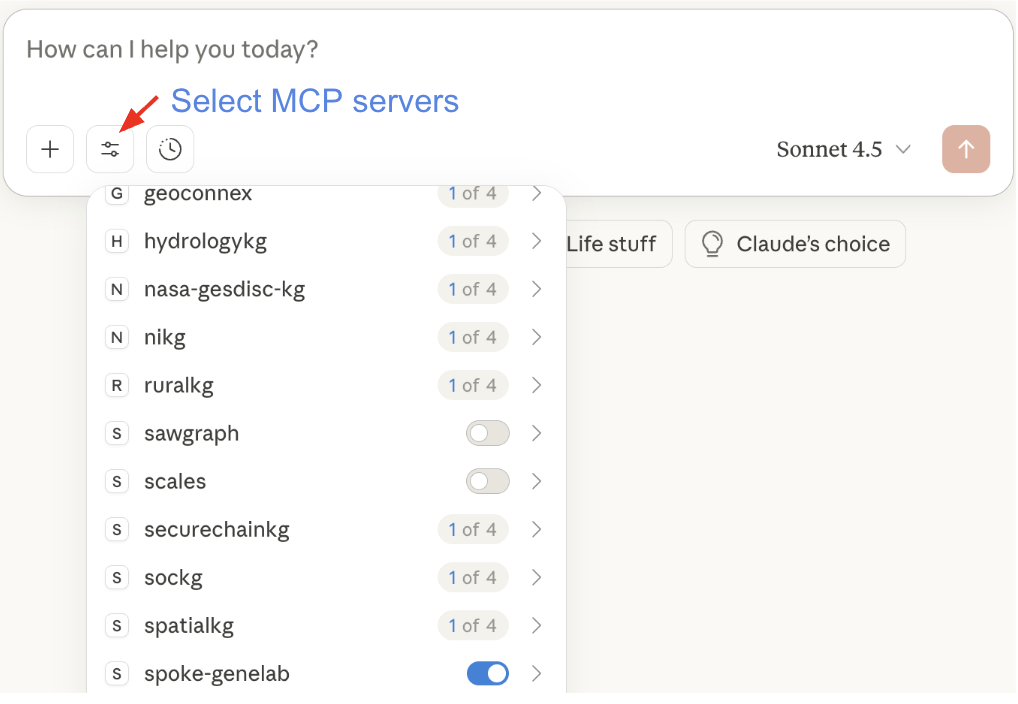
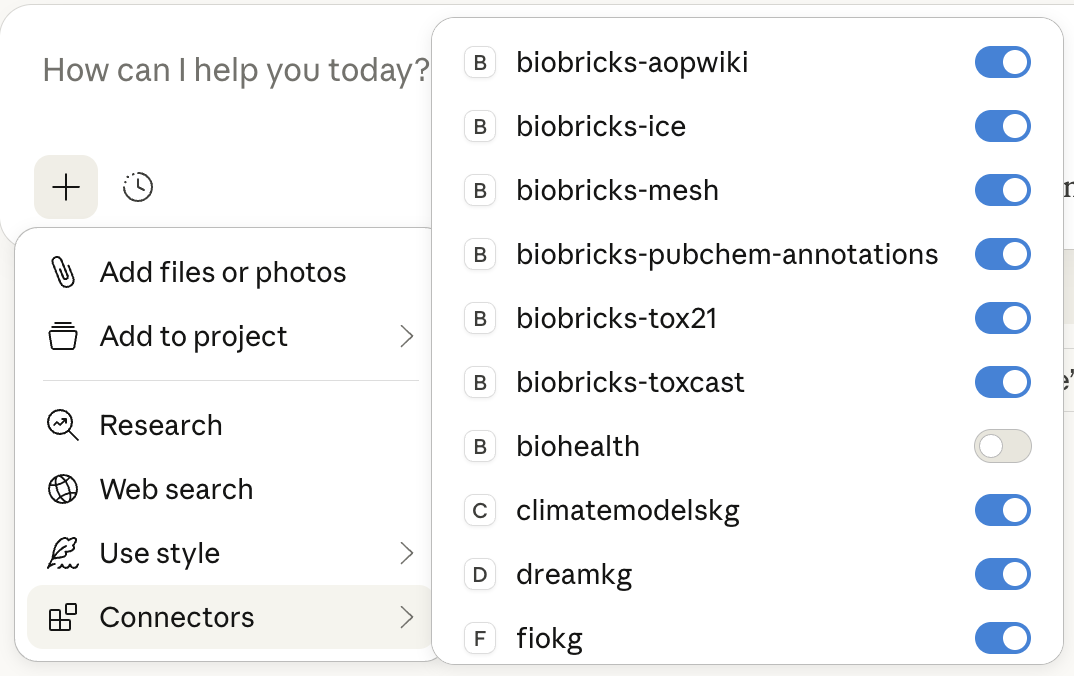
updated MCP selection

diff --git a/README.md b/README.md
@@ -44,13 +44,28 @@ Before installing the MCP Server Proto-OKN, ensure you have:
 
 Once configured, you can start querying knowledge graphs through natural language prompts in Claude Desktop or VS Code chat interface.
 
-In Claude Desktop, select the KGs you want to query, e.g., `spoke-genelab`.
+### Select and Configure MCP Tools
+
+From the top menu bar:
+```
+1. Select: Claude->Settings->Connectors
+2. Click: Configure for the MCP endpoints you want to use
+3. Select Tool permissions: Always allow
+```
+
+In the prompt dialog box, click the `+` button:
+```
+1. Turn off Web search
+2. Toggle MCP services on/off as needed
+```
 
 <img src="https://raw.githubusercontent.com/sbl-sdsc/mcp-proto-okn/main/docs/images/select_mcp_server.png"
      alt="Tool Selector"
      width="500">
 
-To create a transcript of a chat (see examples below), use the following prompt: `Create a chat transcript in .md format`. The transcript can then be downloaded in .md or .pdf format.
+To create a transcript of a chat (see examples below), use the following prompt: 
+```Create a chat transcript```. 
+The transcript can then be downloaded in .md format.
 
 ### Example Queries
 
@@ -72,39 +87,39 @@ To create a transcript of a chat (see examples below), use the following prompt:
 
    [ufokn chat transcript](https://github.com/sbl-sdsc/mcp-proto-okn/blob/main/docs/examples/ufokn_overview.md)
 
-3. **GeneLab Assay Structure (spoke-genelab)**
+2. **GeneLab Assay Structure (spoke-genelab)**
 
    [Chat transcript](https://github.com/sbl-sdsc/mcp-proto-okn/blob/main/docs/examples/spoke_genelab_assay.md)
 
-4. **Spaceflight Gene Expression Analysis (spoke-genelab, spoke-okn)**
+3. **Spaceflight Gene Expression Analysis (spoke-genelab, spoke-okn)**
 
    [Chat transcript](https://github.com/sbl-sdsc/mcp-proto-okn/blob/main/docs/examples/spoke_spaceflight_analysis.md)
 
-6. **Disease Prevalence in the US (spoke-okn)**
+4. **Disease Prevalence in the US (spoke-okn)**
 
    [Chat transcript](https://github.com/sbl-sdsc/mcp-proto-okn/blob/main/docs/examples/us_county_disease_prevalence.md)
 
-7. **Disease Prevalence - Socio-Economic Factors Correlation (spoke-okn)**
+5. **Disease Prevalence - Socio-Economic Factors Correlation (spoke-okn)**
 
    [Chat transcript](https://github.com/sbl-sdsc/mcp-proto-okn/blob/main/docs/examples/disease_socio_economic_correlation.md)
 
-8. **Data about PFOA (spoke-okn, biobricks-toxcast)**
+6. **Data about PFOA (spoke-okn, biobricks-toxcast)**
 
    [Chat transcript](https://github.com/sbl-sdsc/mcp-proto-okn/blob/main/docs/examples/pfoa_data_spoke_okn_biobricks_toxcast.md)
 
-9. **Biological Targets for PFOA (biobricks-toxcast)**
+7. **Biological Targets for PFOA (biobricks-toxcast)**
 
    [Chat transcript](https://github.com/sbl-sdsc/mcp-proto-okn/blob/main/docs/examples/biobricks_toxcast_PFOA_targets.md)
 
-10. **Criminal Justice Patterns (scales)**
+8. **Criminal Justice Patterns (scales)**
 
    [Chat transcript](https://github.com/sbl-sdsc/mcp-proto-okn/blob/main/docs/examples/scales_criminal_justice_analysis.md)
 
-11. **Michigan Flooding Event (ufokn)**
+9. **Michigan Flooding Event (ufokn)**
 
    [Chat transcript](https://github.com/sbl-sdsc/mcp-proto-okn/blob/main/docs/examples/ufokn_michigan_flood.md)
 
-12. **Chemical Identifiers (all Proto-OKN KGs)**
+10. **Chemical Identifiers (all Proto-OKN KGs)**
 
    [Chat transcript](https://github.com/sbl-sdsc/mcp-proto-okn/blob/main/docs/examples/chemical_identifiers.md)   
 
